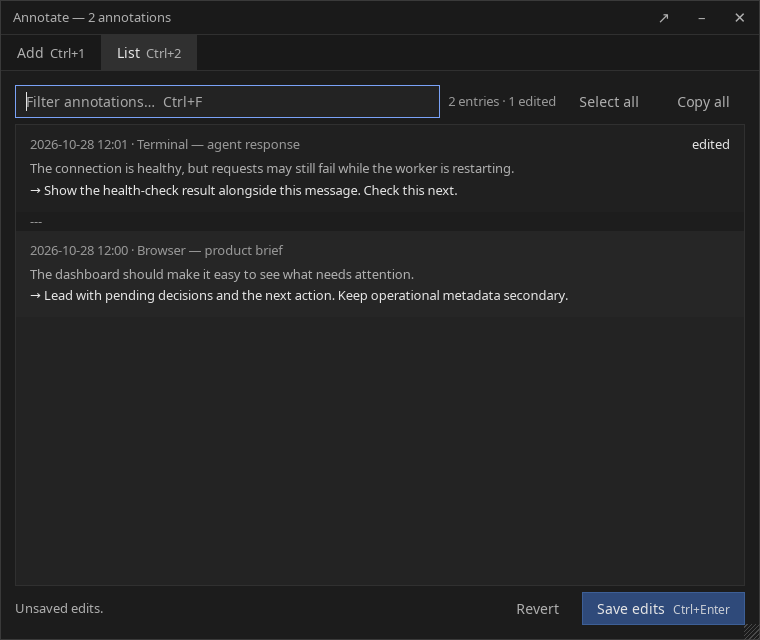
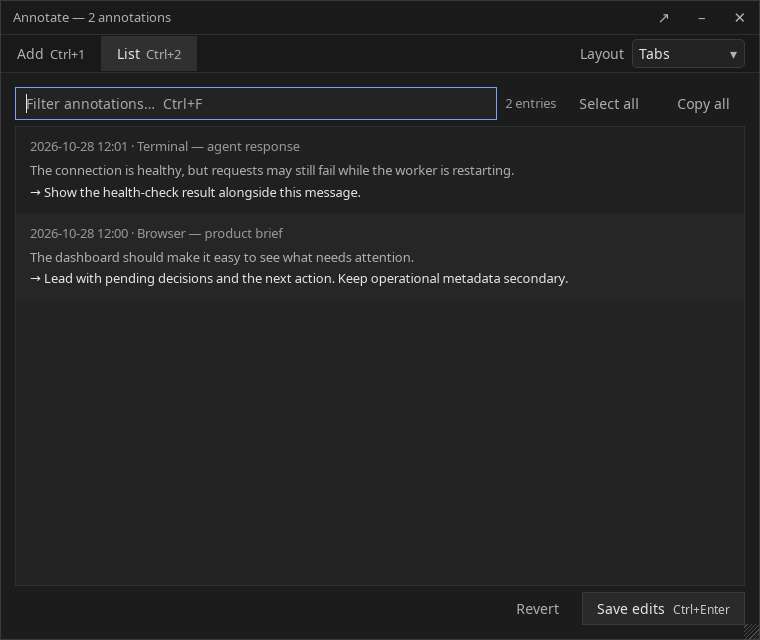
Show both panes and keep separators on the clipboard
Offer a saved side-by-side layout without rebuilding the editable document. Keep Add on the left and List on the right, and route keyboard save by focus while preserving draft and close protections.

Remove displayed separator nodes. Serialize real clipboard selections by their selected note fragments, inserting --- only at crossed note boundaries and preserving partial text, whitespace and multiline content. Keep Copy all behavior and fall back to native copying for damaged structure.

All 126 tests pass, including native Ctrl+C/Ctrl+V and layout persistence, focus, rollback, draft and geometry regressions. Tabs and Split audits pass at 640/760/1000/1200px; refresh synthetic screenshots.

diff --git a/desktop_annotator/ui/index.html b/desktop_annotator/ui/index.html
@@ -20,15 +20,22 @@
        color:var(--dim);font-size:15px;cursor:pointer;border-radius:2px;font-family:inherit}
   .btn:hover{background:#2c2c2c;color:var(--text)}
   .btn.x:hover{background:#a33;color:#fff}
-  .tabs{display:flex;border-bottom:1px solid var(--line);background:#191919;flex:none;
+  .tabs{display:flex;align-items:center;flex-wrap:wrap;border-bottom:1px solid var(--line);background:#191919;flex:none;
         user-select:none}
   .tab{padding:8px 16px;font-size:14px;color:var(--dim);cursor:pointer;font-family:inherit;
        border:0;background:transparent}
   .tab:hover{color:var(--text)}
   .tab.on{color:var(--text);background:#303030}
   .tab .k{color:var(--dim);font-size:13px;margin-left:6px}
+  .layout-control{position:relative;display:flex;align-items:center;gap:8px;margin-left:auto;padding:4px 14px;font-size:14px;color:var(--dim)}
+  .layout-control select{appearance:none;-webkit-appearance:none;font:inherit;color:var(--text);background:var(--panel);border:1px solid var(--line2);padding:3px 24px 3px 6px}
+  .layout-control::after{content:"▾";position:absolute;right:22px;pointer-events:none;color:var(--dim);font-size:14px}
+  .layout-control option{color:var(--text);background:var(--panel)}
+  .layout-control select:focus-visible{outline:2px solid var(--accent);outline-offset:2px}
+  .workspace{flex:1;min-height:0;min-width:0;display:grid;grid-template-columns:minmax(0,1fr);grid-template-rows:minmax(0,1fr)}
+  .workspace.split{grid-template-columns:repeat(2,minmax(0,1fr))}
   .pane{flex:1;min-height:0;min-width:0;width:100%;padding:14px;display:none;flex-direction:column;gap:6px;overflow:auto}
-  .pane.on{display:flex}
+  .pane.on,.workspace.split .pane{display:flex}
   .meta{display:flex;gap:10px;align-items:baseline;font-size:13px;color:var(--dim)}
   .meta .src{min-width:0;white-space:nowrap;overflow:hidden;text-overflow:ellipsis}
   .meta .stamp{margin-left:auto;color:var(--faint);font-size:13px;white-space:nowrap}
@@ -83,7 +90,6 @@
   .blame-reference{flex:1;min-width:0;overflow:hidden;text-overflow:ellipsis;white-space:nowrap}
   .q{min-height:1.5em;color:#b0b0b0;white-space:pre-wrap;overflow-wrap:anywhere}
   .c{color:var(--text);white-space:pre-wrap;overflow-wrap:anywhere;margin-top:2px}
-  .sep{color:var(--faint);font-size:13px;padding:0 14px;line-height:1.5;background:#1d1d1d}
   .empty{padding:22px 14px;color:var(--faint);font-size:13px;user-select:none}
   mark{background:#3a3a1a;color:#e8e0a0;padding:0 2px}
   .grip{position:fixed;right:0;bottom:0;width:16px;height:16px;cursor:nwse-resize;z-index:5;
@@ -101,6 +107,9 @@
   <div class="tabs">
     <button class="tab on" data-pane="add">Add<span class="k">Ctrl+1</span></button>
     <button class="tab" data-pane="list">List<span class="k">Ctrl+2</span></button>
+    <label class="layout-control" for="layout">Layout
+      <select id="layout"><option value="tabs">Tabs</option><option value="split">Side by side</option></select>
+    </label>
   </div>
 
   <div id="close-warning" class="close-warning" role="alert" hidden>
@@ -111,6 +120,7 @@
     </div>
   </div>
 
+  <div class="workspace" id="workspace">
   <div class="pane on" id="pane-add">
     <div class="meta">
       <span class="src" id="source"></span>
@@ -148,11 +158,13 @@
       <button class="go" id="save">Save edits<span class="button-key">Ctrl+Enter</span></button>
     </div>
   </div>
+  </div>
 </div>
 <div class="grip" id="grip" title="Resize"></div>
 
 <script>
 const S = window.__STATE__ || {source:"", stamp:"", candidates:[], entries:[]};
+S.layout = S.layout === "split" ? "split" : "tabs";
 const host = m => window.webkit.messageHandlers.host.postMessage(JSON.stringify(m));
 const $ = id => document.getElementById(id);
 const esc = s => s.replace(/[&<>]/g, c => ({"&":"&amp;","<":"&lt;",">":"&gt;"}[c]));
@@ -233,13 +245,29 @@ $("sublime").onclick = () => host({action:"sublime"});
 $("title").addEventListener("mousedown", e => { if (e.button === 0) host({action:"drag"}); });
 $("grip").addEventListener("mousedown", e => { e.preventDefault(); host({action:"resize"}); });
 
-/* ---------- tabs ---------- */
-const showPane = name => {
+/* ---------- layout and active pane ---------- */
+const activatePane = name => {
   document.querySelectorAll(".tab").forEach(t => t.classList.toggle("on", t.dataset.pane === name));
   document.querySelectorAll(".pane").forEach(p => p.classList.toggle("on", p.id === "pane-" + name));
+};
+const showPane = name => {
+  activatePane(name);
   if (name === "add") { resizeQuote(); $("comment").focus(); } else $("filter").focus();
 };
 document.querySelectorAll(".tab").forEach(t => t.onclick = () => showPane(t.dataset.pane));
+document.querySelectorAll(".pane").forEach(p => {
+  p.addEventListener("focusin", () => activatePane(p.id === "pane-list" ? "list" : "add"));
+});
+function applyLayout(layout) {
+  S.layout = layout === "split" ? "split" : "tabs";
+  $("workspace").classList.toggle("split", S.layout === "split");
+  $("layout").value = S.layout;
+  resizeQuote();
+}
+$("layout").addEventListener("change", () => {
+  applyLayout($("layout").value);
+  host({action:"layout", layout:S.layout});
+});
 
 /* ---------- add pane ---------- */
 $("source").textContent = S.source;
@@ -325,7 +353,7 @@ function renderDoc() {
       <div class="blame" contenteditable="false"><span class="blame-reference">${esc(e.stamp)} · ${esc(e.source)}</span><span class="edited" hidden>edited</span></div>
       <div class="q">${hi(e.quote)}</div>
       <div class="c">→ ${hi(e.comment)}</div>
-    </div>`).join('<div class="sep" contenteditable="false">---</div>');
+    </div>`).join("");
   updateDirtyIndicators();
 }
 
@@ -342,7 +370,7 @@ function collectEdits() {
   for (const node of doc.childNodes) {
     if (node.nodeType === Node.ELEMENT_NODE &&
         (node.classList.contains("entry") ||
-         (node.matches(".sep, .empty") && node.contentEditable === "false"))) continue;
+         (node.matches(".empty") && node.contentEditable === "false"))) continue;
     if (node.textContent.trim()) return malformed();
   }
   for (const block of doc.querySelectorAll(".entry")) {
@@ -440,6 +468,59 @@ $("save").onclick = () => {
 };
 $("revert").onclick = () => host({action:"revert"});
 
+/* Copy visible selections as plain text, with note boundaries only on the clipboard. */
+function selectedNoteText(selection) {
+  if (!selection || selection.rangeCount !== 1 || selection.isCollapsed) return null;
+  const selected = selection.getRangeAt(0);
+  const blocks = [...doc.querySelectorAll('.entry')];
+  // A damaged editable document must remain copyable through native copying.
+  for (const node of doc.childNodes) {
+    if (node.nodeType === Node.ELEMENT_NODE && (node.classList.contains('entry') ||
+        (node.classList.contains('empty') && node.contentEditable === 'false'))) continue;
+    if (node.textContent.trim()) return null;
+  }
+  const result = [];
+  for (const block of blocks) {
+    const quote = block.querySelectorAll('.q'), comment = block.querySelectorAll('.c');
+    if (quote.length !== 1 || comment.length !== 1 ||
+        quote[0].parentElement !== block || comment[0].parentElement !== block) return null;
+    for (const node of block.childNodes) {
+      if (node === quote[0] || node === comment[0] ||
+          (node.nodeType === Node.ELEMENT_NODE && node.matches('.blame[contenteditable="false"]'))) continue;
+      if (node.textContent.trim()) return null;
+    }
+    const fields = [];
+    for (const field of [quote[0], comment[0]]) {
+      if (!selected.intersectsNode(field)) continue;
+      const clip = document.createRange();
+      clip.selectNodeContents(field);
+      if (selected.compareBoundaryPoints(Range.START_TO_START, clip) > 0)
+        clip.setStart(selected.startContainer, selected.startOffset);
+      if (selected.compareBoundaryPoints(Range.END_TO_END, clip) < 0)
+        clip.setEnd(selected.endContainer, selected.endOffset);
+      if (clip.collapsed) continue;
+      const fragment = document.createElement('div');
+      fragment.style.cssText = 'position:fixed;left:0;top:0;opacity:0;pointer-events:none;white-space:pre-wrap';
+      fragment.setAttribute('aria-hidden', 'true');
+      fragment.appendChild(clip.cloneContents());
+      document.body.appendChild(fragment);
+      try {
+        const text = fragment.innerText;
+        if (text.length) fields.push(text);
+      } finally { fragment.remove(); }
+    }
+    if (fields.length) result.push(fields.join('\n'));
+  }
+  return result.length ? result.join('\n---\n') : null;
+}
+doc.addEventListener('copy', event => {
+  if (!event.clipboardData) return;
+  const text = selectedNoteText(getSelection());
+  if (text === null) return;
+  event.clipboardData.setData('text/plain', text);
+  event.preventDefault();
+});
+
 /* ---------- messages from the host ---------- */
 window.fromHost = msg => {
   if (msg.kind === "entries") {
@@ -456,6 +537,11 @@ window.fromHost = msg => {
     requestClose(msg.reason === "shortcut" ? "shortcut" : "window");
   } else if (msg.kind === "status") {
     setStatus(msg.pane === "add" ? "addstatus" : "liststatus", msg.status, !!msg.ok);
+  } else if (msg.kind === "layout" || msg.kind === "layoutError") {
+    applyLayout(msg.layout);
+    if (msg.kind === "layoutError") {
+      setStatus(listOpen() ? "liststatus" : "addstatus", msg.status, false, true);
+    }
   }
 };
 
@@ -476,5 +562,6 @@ addEventListener("keydown", e => {
 
 updateSaveProblem(saveProblem);
 renderDoc();
+applyLayout(S.layout);
 showPane(S.entries.length && !S.candidates.length ? "list" : "add");
 </script>

diff --git a/tests/test_layout_clipboard_live.py b/tests/test_layout_clipboard_live.py
@@ -1,0 +1,108 @@
+"""Native selection clipboard and persisted split-layout regressions."""
+import unittest
+from unittest.mock import patch
+
+import tests.test_webview_live as webkit_fixture
+
+PREFIX = webkit_fixture.SCRIPT.split('    assert js("showPane')[0]
+
+
+def run_webkit(body):
+    with patch.object(webkit_fixture, 'SCRIPT', PREFIX + body):
+        webkit_fixture.LiveWebKitTests('test_real_webkit_workflow').test_real_webkit_workflow()
+
+
+class ClipboardSelectionTests(unittest.TestCase):
+    def test_native_copy_and_paste_preserve_note_boundaries(self):
+        run_webkit(r'''
+    js("showPane('list'); return true")
+    assert js("return doc.querySelectorAll('.sep').length") == 0
+    assert not js("return doc.textContent.includes('---')")
+    window=subprocess.run(['xdotool','search','--onlyvisible','--pid',str(os.getpid()),'--name','Annotate'],capture_output=True,text=True,check=True).stdout.splitlines()[0]
+    subprocess.run(['xdotool','windowactivate','--sync',window],check=True)
+    clipboard=Gtk.Clipboard.get(Gdk.SELECTION_CLIPBOARD)
+    def native_copy(select):
+        js(select+'; return true')
+        clipboard.set_text('copy pending',-1)
+        subprocess.run(['xdotool','key','--clearmodifiers','ctrl+c'],check=True)
+        until(lambda: clipboard.wait_for_text() != 'copy pending')
+        return clipboard.wait_for_text()
+    all_text='newer quote\n→ newer comment\n---\nolder quote\n→ older comment'
+    assert native_copy("$('selectall').click()") == all_text
+    assert 'Newer' not in clipboard.wait_for_text()
+    assert '2026-' not in clipboard.wait_for_text()
+    # A selection within one field is copied exactly, with no separator.
+    def select_fields(start_selector,start,end_selector,end):
+        return "doc.focus(); const r=document.createRange(); r.setStart(document.querySelector("+json.dumps(start_selector)+").firstChild,"+str(start)+"); r.setEnd(document.querySelector("+json.dumps(end_selector)+").firstChild,"+str(end)+"); const s=getSelection(); s.removeAllRanges();s.addRange(r)"
+    assert native_copy(select_fields('.q',2,'.q',8)) == 'newer quote'[2:8]
+    assert native_copy(select_fields('.q',6,'.c',7)) == 'quote\n→ newer'
+    # Crossing entries adds exactly one delimiter, preserving both partial ends.
+    assert native_copy(select_fields('.entry:first-child .c',4,'.entry:last-child .q',5)) == 'wer comment\n---\nolder'
+    assert native_copy("doc.focus();getSelection().setBaseAndExtent(document.querySelector('.entry:last-child .q').firstChild,5,document.querySelector('.entry:first-child .c').firstChild,4)") == 'wer comment\n---\nolder'
+    js("document.querySelector('.q').textContent='  padded  ';doc.dispatchEvent(new Event('input',{bubbles:true}));return true")
+    assert native_copy("doc.focus();const r=document.createRange();r.selectNodeContents(document.querySelector('.q'));const s=getSelection();s.removeAllRanges();s.addRange(r)") == '  padded  '
+    js("document.querySelector('.q').innerHTML='line one<br>line two'; doc.dispatchEvent(new Event('input',{bubbles:true})); return true")
+    assert native_copy("doc.focus(); const r=document.createRange();r.selectNodeContents(document.querySelector('.q'));const s=getSelection();s.removeAllRanges();s.addRange(r)") == 'line one\nline two'
+    # Filtered selection copies only visible notes, whereas Copy all keeps hidden drafts.
+    js("$('filter').value='older'; $('filter').dispatchEvent(new Event('input')); return true")
+    visible='older quote\n→ older comment'
+    assert native_copy("$('selectall').click()") == visible
+    js("$('copyall').click(); return true")
+    expected='line one\nline two\n→ newer comment\n---\nolder quote\n→ older comment'
+    until(lambda: clipboard.wait_for_text()==expected)
+    # Exercise the actual native paste path into the Add form.
+    js("showPane('add'); $('comment').value=''; $('comment').focus(); return true")
+    subprocess.run(['xdotool','key','--clearmodifiers','ctrl+v'],check=True)
+    until(lambda: js("return $('comment').value") == expected)
+    assert not js("return doc.textContent.includes('---')")
+''')
+
+
+class SplitLayoutTests(unittest.TestCase):
+    def test_layout_persists_and_preserves_drafts_focus_and_selection(self):
+        run_webkit(r'''
+    # Switching layouts must not replace the editable document or lose Undo state.
+    js("showPane('list'); window.originalEntry=doc.querySelector('.entry'); document.querySelector('.q').textContent='split draft'; doc.dispatchEvent(new Event('input',{bubbles:true})); const r=document.createRange();r.selectNodeContents(document.querySelector('.q'));const s=getSelection();s.removeAllRanges();s.addRange(r); $('layout').value='split';$('layout').dispatchEvent(new Event('change')); return true")
+    from desktop_annotator.settings import load_layout
+    until(lambda: load_layout()=='split')
+    until(lambda: js('return innerWidth')>=1000)
+    geometry=js("const a=$('pane-add').getBoundingClientRect(),b=$('pane-list').getBoundingClientRect();return {left:a.left,right:b.left,a:a.width,b:b.width,visibleA:!!a.height,visibleB:!!b.height,same:window.originalEntry===doc.querySelector('.entry'),selection:getSelection().toString()}")
+    assert geometry['visibleA'] and geometry['visibleB'] and geometry['left'] < geometry['right'], geometry
+    assert abs(geometry['a']-geometry['b']) <= 1,geometry
+    for width in [1000,1200]:
+        w.window.resize(width,640)
+        until(lambda: js('return innerWidth')==width)
+        metrics=js("return {small:[...document.querySelectorAll('*')].filter(e=>e.getClientRects().length&&e.textContent.trim()&&!['SCRIPT','STYLE'].includes(e.tagName)&&parseFloat(getComputedStyle(e).fontSize)<12).map(e=>e.className),overflow:document.documentElement.scrollWidth>innerWidth,panes:[...document.querySelectorAll('.pane')].map(e=>({width:e.clientWidth,scroll:e.scrollWidth}))}")
+        assert not metrics['small'] and not metrics['overflow'],metrics
+        assert all(p['scroll']<=p['width'] for p in metrics['panes']),metrics
+    assert geometry['same'] and geometry['selection']=='split draft',geometry
+    assert js("return document.querySelector('.q').innerText")=='split draft'
+    # Ctrl+Enter routes to the focused pane while both are visible.
+    js("$('comment').value='pending Add draft';$('comment').dispatchEvent(new Event('input')); doc.focus(); dispatchEvent(new KeyboardEvent('keydown',{key:'Enter',ctrlKey:true})); return true")
+    until(lambda: 'split draft' in (directory/'annotations.md').read_text())
+    assert js("return $('comment').value")=='pending Add draft'
+    assert w.window.get_visible()
+    w.request_close('window')
+    until(lambda: js("return !$('close-warning').hidden"))
+    assert js("return $('close-message').textContent.includes('Add')")
+    assert w.window.get_visible()
+    js("$('keep-editing').click(); return true")
+    # A second host gets the saved split mode, with no dependency on localStorage.
+    other=AnnotatorWindow(candidates=[],source='Test',directory=directory,gtk=Gtk,gdk=Gdk,webkit=WebKit2,glib=GLib)
+    assert other.layout=='split'
+    other.window.destroy()
+    # Native sizes and DOM switch back without dropping either pane's draft.
+    js("$('layout').value='tabs';$('layout').dispatchEvent(new Event('change')); return true")
+    until(lambda: load_layout()=='tabs')
+    until(lambda: js('return innerWidth')==760)
+    assert js("return $('comment').value")=='pending Add draft'
+    assert js("return document.querySelector('.q').innerText")=='split draft'
+    # Persistence errors restore the selector/layout without replacing draft DOM.
+    result=js("window.rollbackEntry=doc.querySelector('.entry');applyLayout('split');fromHost({kind:'layoutError',layout:'tabs',status:'Could not save layout'});return {tabs:!$('workspace').classList.contains('split'),value:$('layout').value,same:window.rollbackEntry===doc.querySelector('.entry'),note:$('comment').value}")
+    assert result == {'tabs':True,'value':'tabs','same':True,'note':'pending Add draft'},result
+    # The left input pane also receives Ctrl+Enter while both panes are visible.
+    js("$('layout').value='split';$('layout').dispatchEvent(new Event('change'));return true")
+    until(lambda: load_layout()=='split')
+    js("$('comment').focus();dispatchEvent(new KeyboardEvent('keydown',{key:'Enter',ctrlKey:true}));return true")
+    until(lambda: 'pending Add draft' in (directory/'annotations.md').read_text())
+''')

diff --git a/tests/test_webview_live.py b/tests/test_webview_live.py
@@ -302,7 +302,7 @@ class LiveWebKitTests(unittest.TestCase):
         try:
             self.assertTrue(select.select([server.stdout], [], [], 5)[0], 'Xvfb startup timed out')
             with tempfile.TemporaryDirectory() as runtime:
-                env = dict(os.environ, DISPLAY=':'+server.stdout.readline().strip(), GDK_BACKEND='x11', XDG_RUNTIME_DIR=runtime)
+                env = dict(os.environ, DISPLAY=':'+server.stdout.readline().strip(), GDK_BACKEND='x11', XDG_RUNTIME_DIR=runtime, XDG_CONFIG_HOME=str(Path(runtime)/'config'))
                 wm = subprocess.Popen(['metacity', '--sm-disable'], env=env, stdout=subprocess.DEVNULL, stderr=subprocess.DEVNULL)
                 result = subprocess.run(['/usr/bin/python3', '-c', SCRIPT], cwd=ROOT, env=env, text=True, capture_output=True, timeout=65)
                 self.assertEqual(result.returncode, 0, result.stdout+'\n'+result.stderr)

diff --git a/README.md b/README.md
@@ -33,13 +33,27 @@ to keep them somewhere else.
 
 ## The list
 
-The second tab is every note you have taken, newest first. It is one document
+The List pane is every note you have taken, newest first. Choose `Side by side`
+from the labeled `Layout` menu to keep the quote and note input on the left and
+the list on the right, or choose `Tabs` to show one pane at a time. The app
+remembers that choice for the next launch. Switching layouts keeps your drafts,
+filter, selection, Undo history, and any close warning in place. The Add and List
+buttons focus the corresponding pane in either layout.
+
+![Input and saved notes side by side](docs/split.png)
+
+The list is one document
 rather than a table of rows, so you can drag a selection across the end of one
 note and the start of the next and copy exactly that. Filter with `Ctrl+F`,
 copy the selection with `Ctrl+C`, edit any note in place and press `Save edits`
 to write the file back.
 
-Changed notes show an `edited` marker, and the footer counts edited and deleted
+There are no visible `---` separators between notes. Copying a selection that
+crosses notes inserts `---` between the selected note fragments on the clipboard;
+`Copy all` also separates notes with `---`. These clipboard separators do not
+appear in the editable list, and a selection within one note stays unchanged.
+
+Changed notes show an `edited` marker, and the toolbar counts edited and deleted
 notes. `Save edits` turns blue while changes are unsaved; saving or reverting
 clears those indicators. Editing a note back to its saved text clears its marker.
 
@@ -91,7 +105,8 @@ typing. The close button, Cancel, and the native window close always need an
 explicit `Discard and close` when work is unsaved.
 
 A captured quote alone is not an unsaved draft. Changing that quote or typing a
-note makes the Add tab unsaved. `Ctrl+Enter` saves only the current tab. If the
+note makes the Add pane unsaved. `Ctrl+Enter` saves only the active pane: in
+Side by side, that is the pane you last focused. If the
 List tab has unsaved edits, adding a note takes you there first to save or revert
 those edits; your Add draft is kept.
 
@@ -100,8 +115,8 @@ those edits; your Add draft is kept.
 | Key | Does |
 | --- | --- |
 | `Ctrl+Enter` | Save the note, or save your edits in the list |
-| `Ctrl+1` | Add tab |
-| `Ctrl+2` or `Ctrl+L` | List tab |
+| `Ctrl+1` | Focus the note input in Add |
+| `Ctrl+2` or `Ctrl+L` | Focus the List pane |
 | `Ctrl+F` | Filter the list |
 | `Ctrl+A` | Select every note in the list |
 | `Esc` | Close; warn first if either tab has unsaved work |
